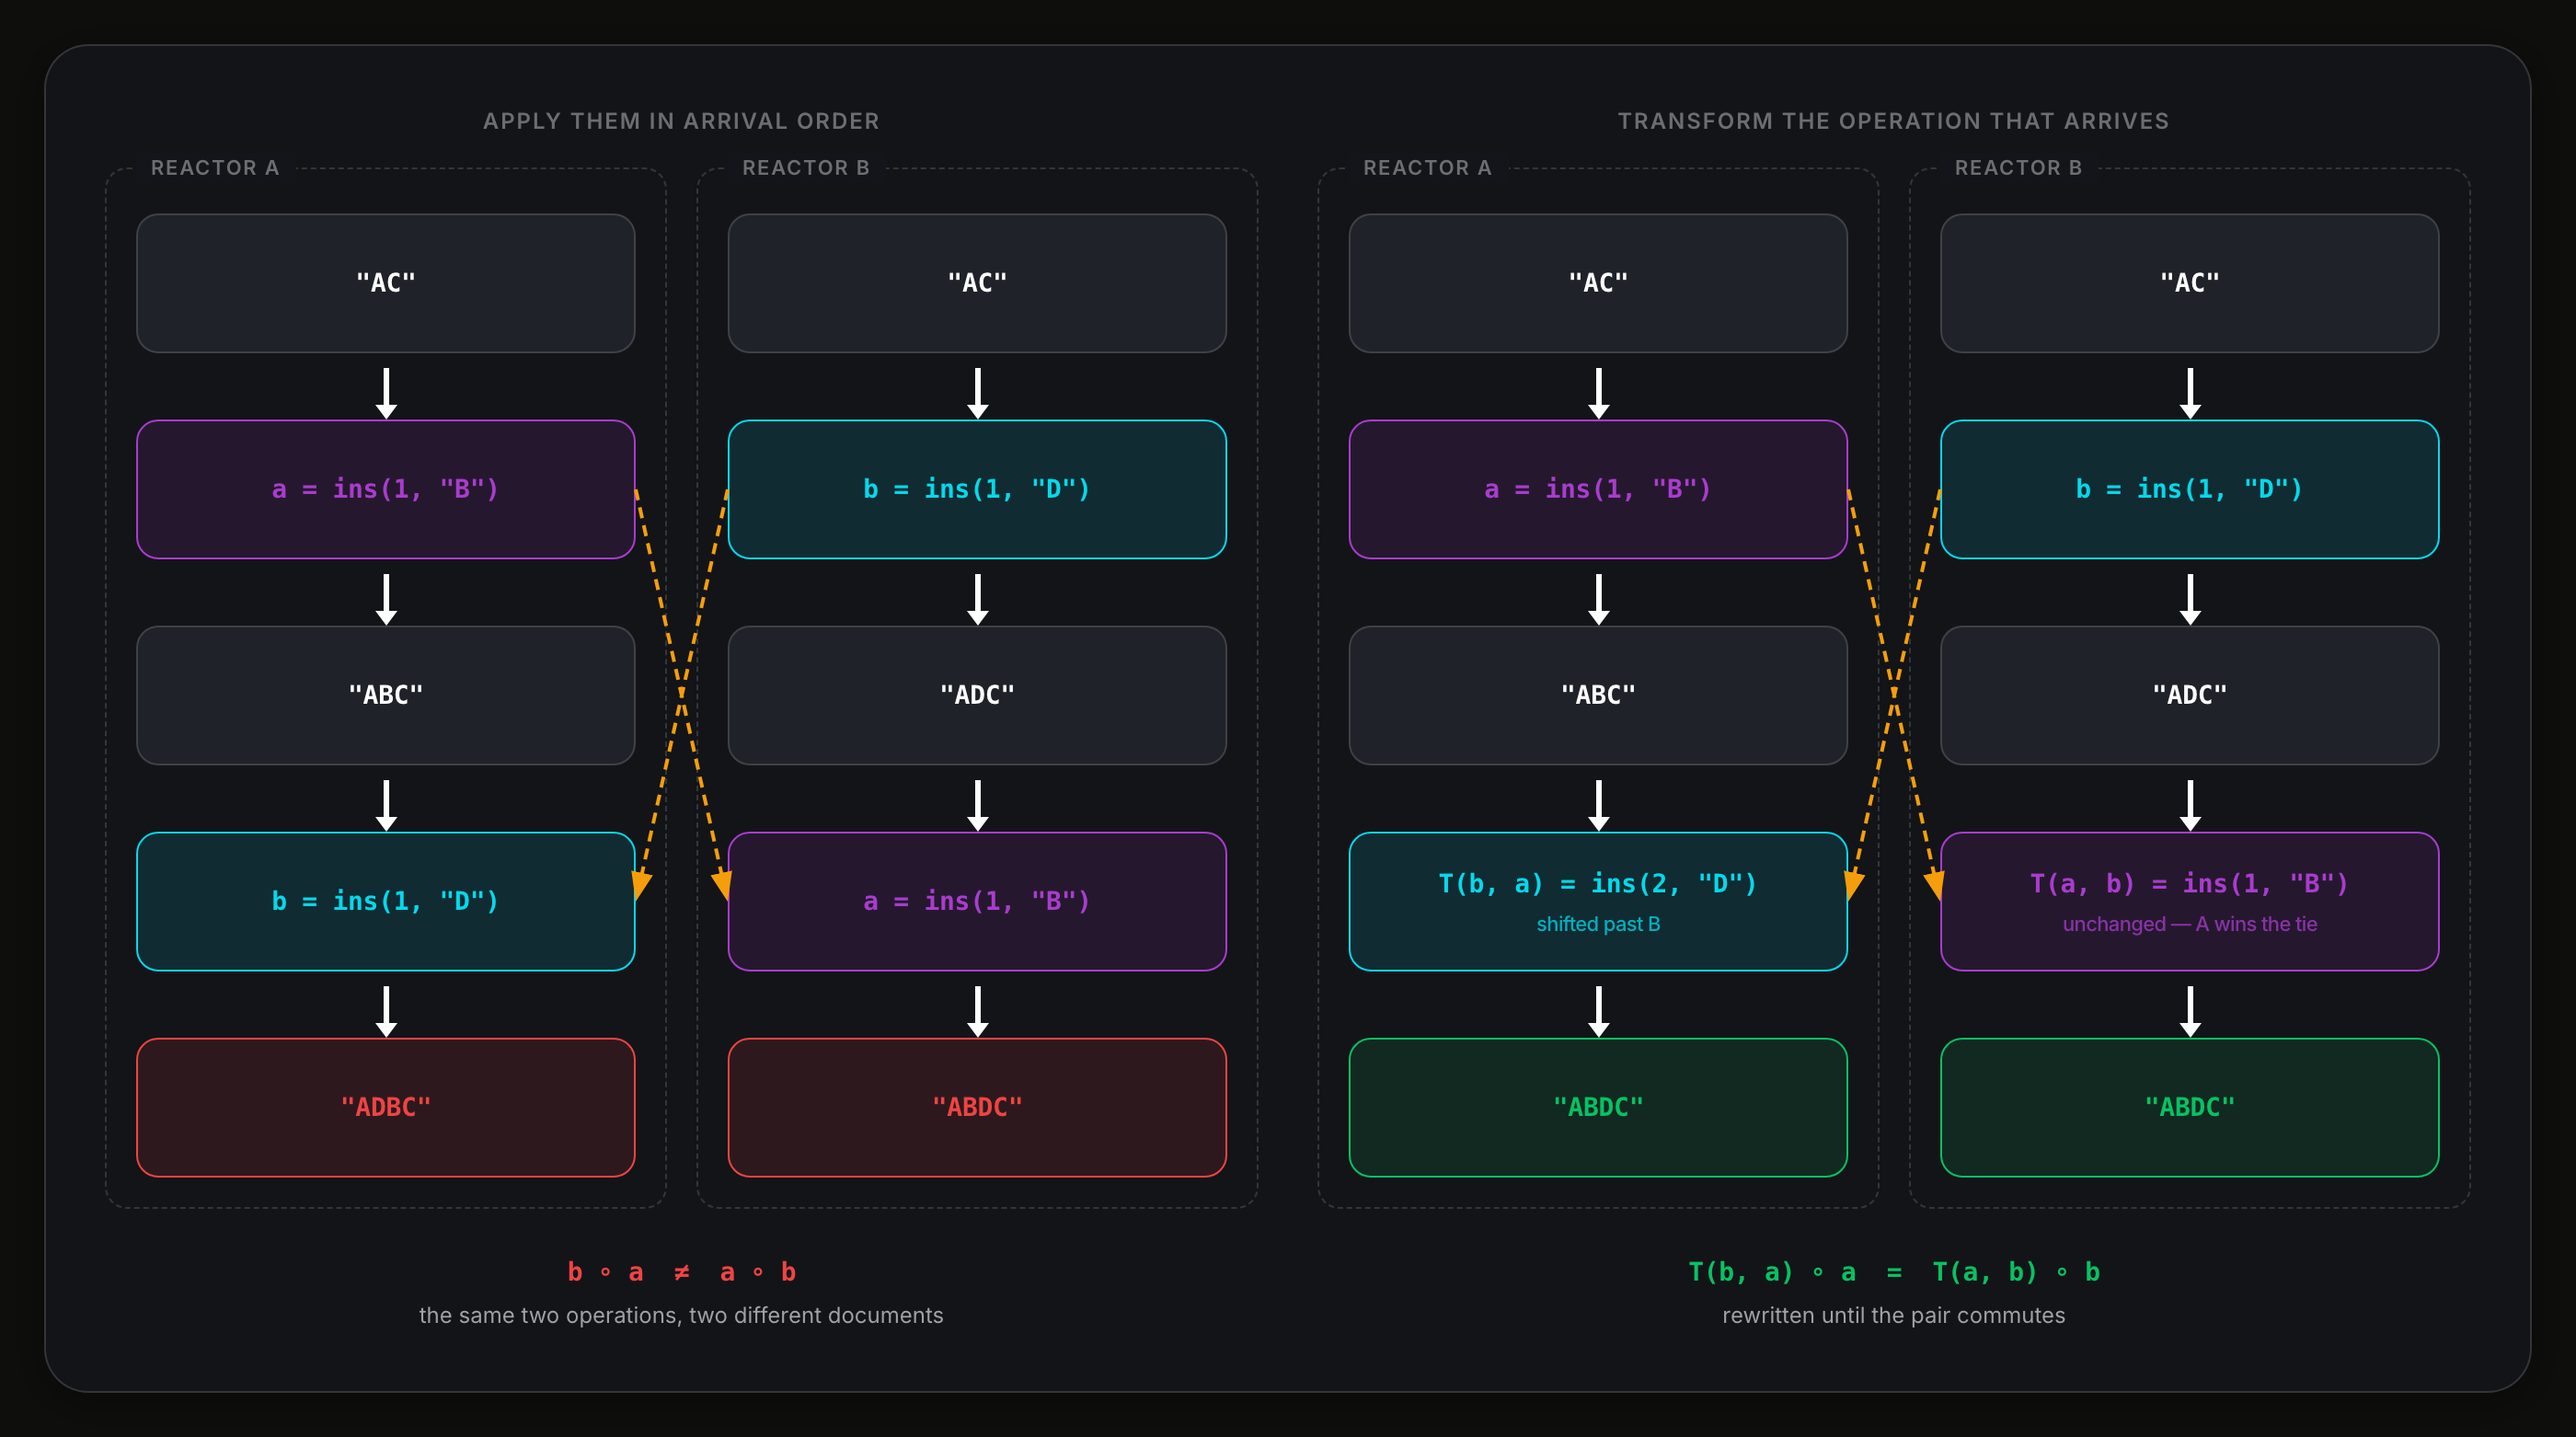
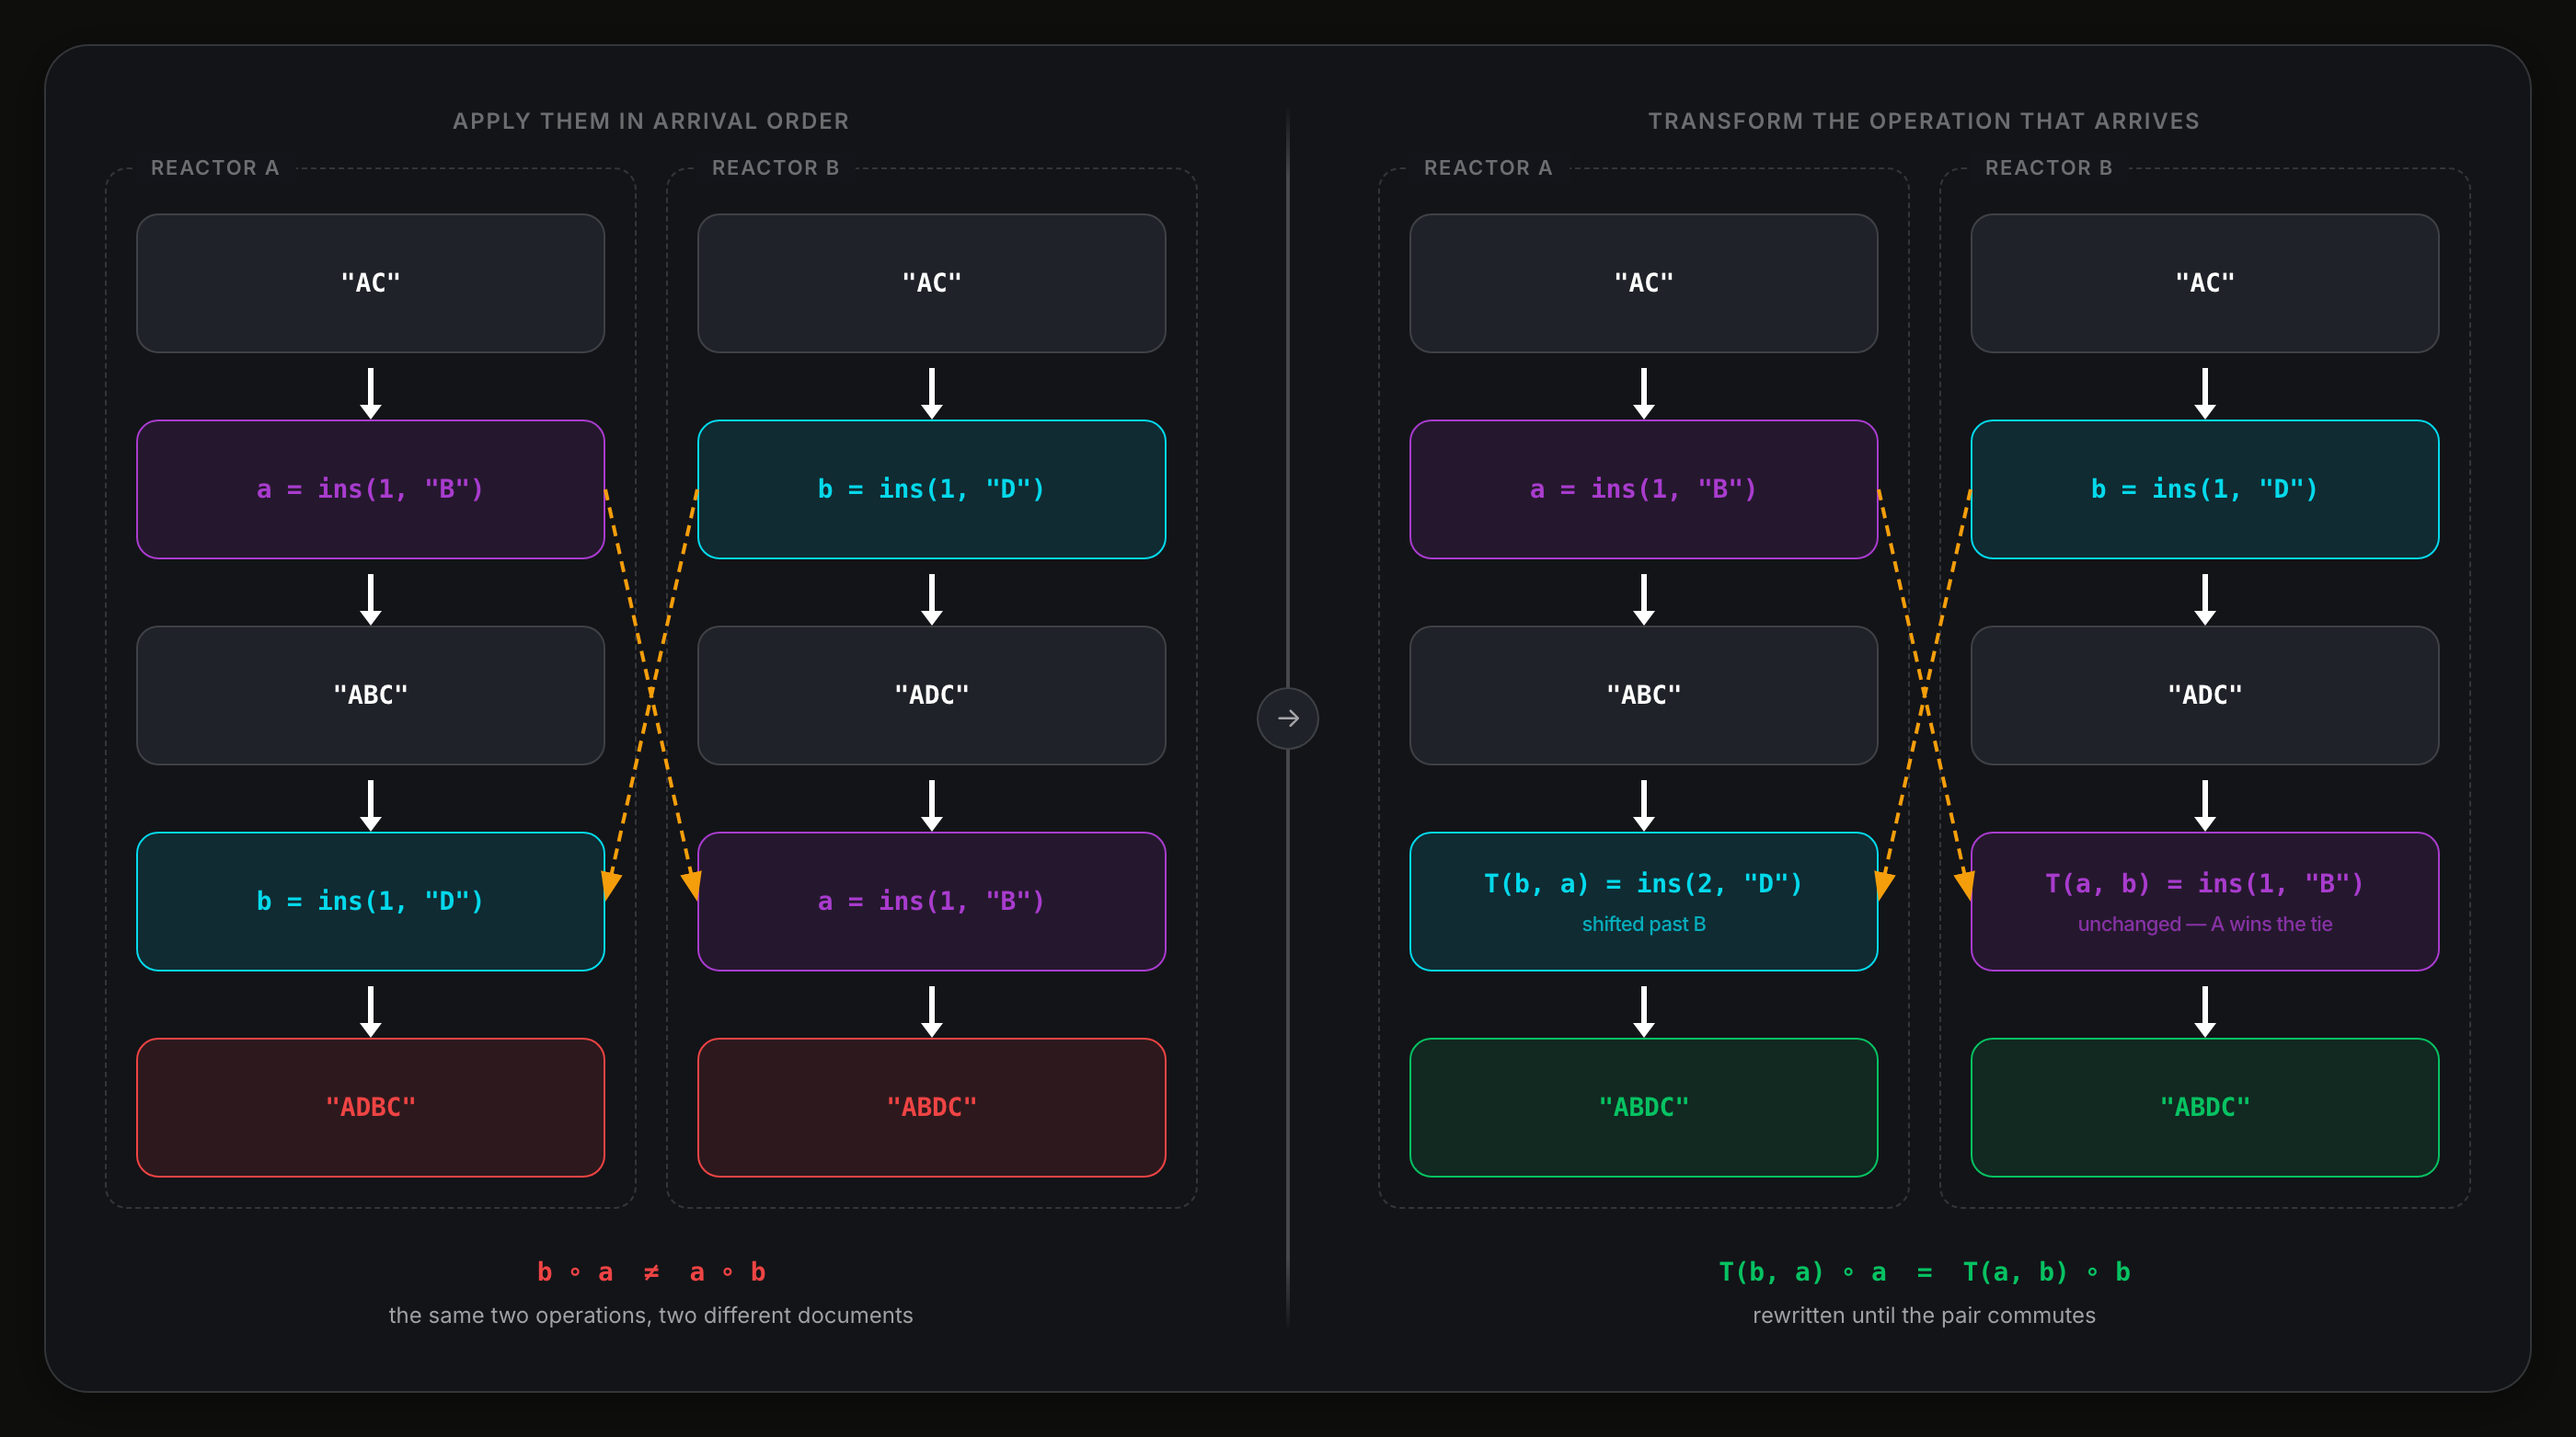
rebuild: the OT slide's two halves get a divider

diff --git a/diagrams/pages/google-docs-ot.html b/diagrams/pages/google-docs-ot.html
@@ -68,8 +68,36 @@
     /* Two panels: the ordering problem, then the transform that fixes it */
     .panels {
       display: grid;
-      grid-template-columns: 1fr 1fr;
-      gap: var(--space-xl);
+      grid-template-columns: 1fr auto 1fr;
+      gap: var(--space-2xl);
+    }
+
+    /* The spine between the problem and the fix */
+    .panel-divider {
+      position: relative;
+      width: 2px;
+      border-radius: 1px;
+      background: linear-gradient(to bottom,
+        transparent,
+        rgba(255, 255, 255, 0.22) 6%,
+        rgba(255, 255, 255, 0.22) 94%,
+        transparent);
+    }
+    .panel-divider::after {
+      content: '\2192';
+      position: absolute;
+      top: 50%;
+      left: 50%;
+      transform: translate(-50%, -50%);
+      width: 34px;
+      height: 34px;
+      border-radius: 50%;
+      border: 1px solid var(--border-glass);
+      background: var(--bg-elevated);
+      color: var(--text-secondary);
+      font-size: 16px;
+      line-height: 32px;
+      text-align: center;
     }
     .panel-label {
       font-size: 12px;
@@ -210,6 +238,8 @@
               <span class="verdict-note">the same two operations, two different documents</span>
             </div>
           </div>
+
+          <div class="panel-divider"></div>
 
           <!-- ============ Right: T(a, b) makes them commute ============ -->
           <div>
